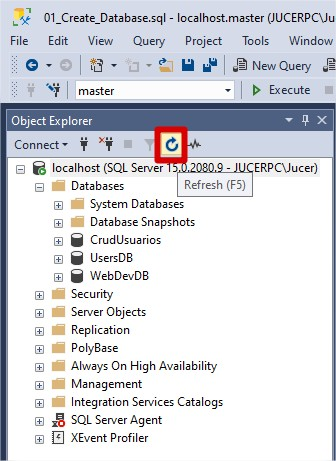
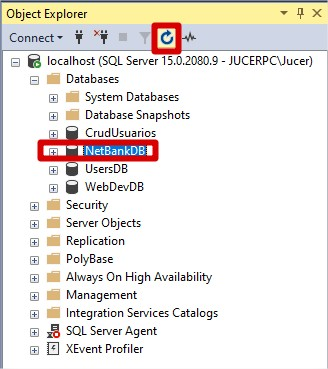
Scripts

diff --git a/Exams/Exam-01/Readme.md b/Exams/Exam-01/Readme.md
@@ -21,10 +21,49 @@ Cree la base de datos **NetBakDB** ejecutando los siguientes pasos:
 
 2. Abra el archivo **01_Create_Database.sql** que se encuentra en la ruta **Exams/Exam-01/Scripts** <br>
 
-![](https://github.com/Jucer74/ServicesDevelopment/blob/main/Exams/Exam-01/Images/Image-01.jpg)
+![](https://github.com/Jucer74/ServicesDevelopment/blob/main/Exams/Exam-01/Images/Image-02.jpg)
+
+![](https://github.com/Jucer74/ServicesDevelopment/blob/main/Exams/Exam-01/Images/Image-03.jpg)
+
+3. Ejecute el script<br>
+
+![](https://github.com/Jucer74/ServicesDevelopment/blob/main/Exams/Exam-01/Images/Image-04.jpg)
+
+4. Refresque la conexión y valide que la base de datos fue creada<br>
+
+![](https://github.com/Jucer74/ServicesDevelopment/blob/main/Exams/Exam-01/Images/Image-05.jpg)
+
+5. Abra el archivo **02_Grant_User_Admin.sql** y ejecutelo<br>
+
+![](https://github.com/Jucer74/ServicesDevelopment/blob/main/Exams/Exam-01/Images/Image-06.jpg)
+
+![](https://github.com/Jucer74/ServicesDevelopment/blob/main/Exams/Exam-01/Images/Image-07.jpg)
 
 
+6. Abra el archivo **03_Tab_ReportedCards.sql** y ejecutelo<br>
 
-  
-3. Ejecute el script
-4.  
+![](https://github.com/Jucer74/ServicesDevelopment/blob/main/Exams/Exam-01/Images/Image-08.jpg)
+
+![](https://github.com/Jucer74/ServicesDevelopment/blob/main/Exams/Exam-01/Images/Image-09.jpg)
+
+
+7. Abra el archivo **04_Ins_ReportedCards.sql** y ejecutelo<br>
+
+![](https://github.com/Jucer74/ServicesDevelopment/blob/main/Exams/Exam-01/Images/Image-10.jpg)
+
+![](https://github.com/Jucer74/ServicesDevelopment/blob/main/Exams/Exam-01/Images/Image-11.jpg)
+
+8. Desconectese y Reconectese con el usuario **Admin**<br>
+![](https://github.com/Jucer74/ServicesDevelopment/blob/main/Exams/Exam-01/Images/Image-12.jpg)
+
+![](https://github.com/Jucer74/ServicesDevelopment/blob/main/Exams/Exam-01/Images/Image-13.jpg)
+
+9. Ejecute el query de seleccion de los datos para validar que puede obtener los valores.
+
+```sql
+USE [NetBankDB]
+GO
+
+SELECT * 
+FROM ReportedCards
+```
